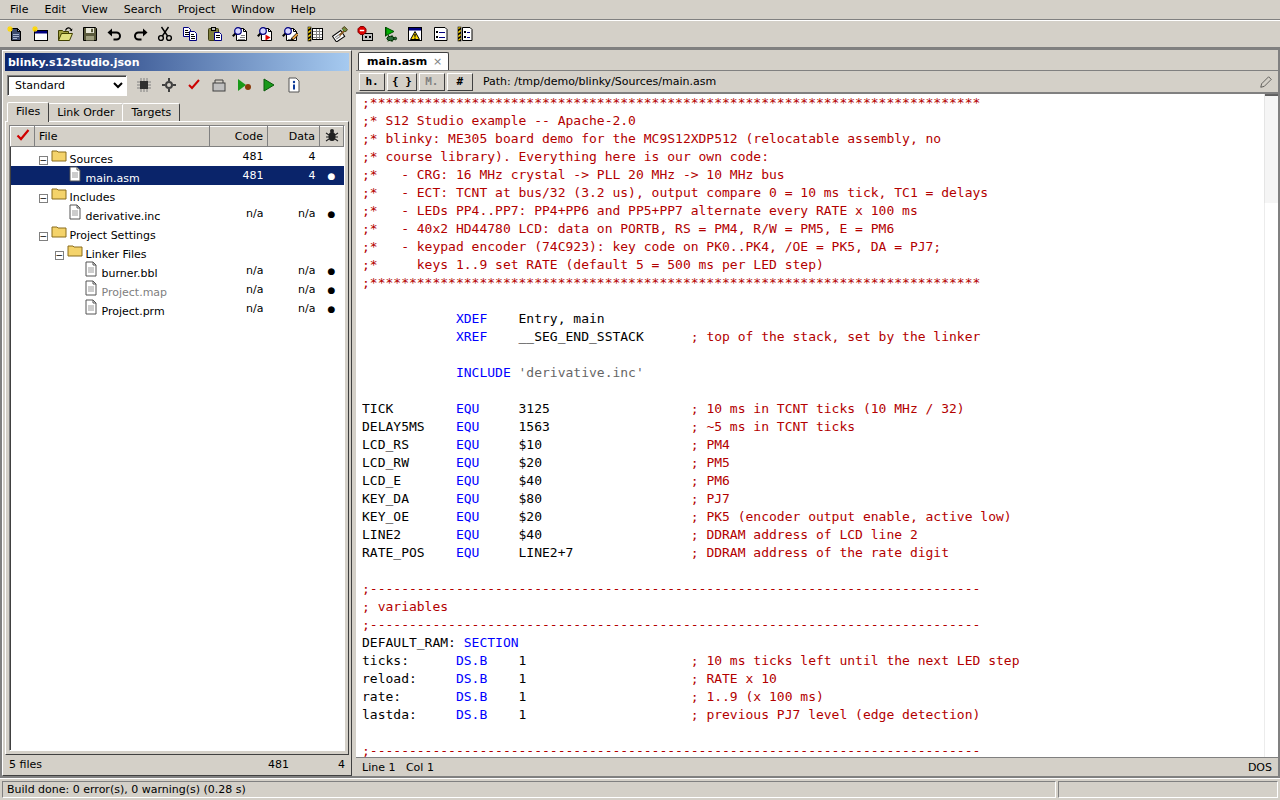
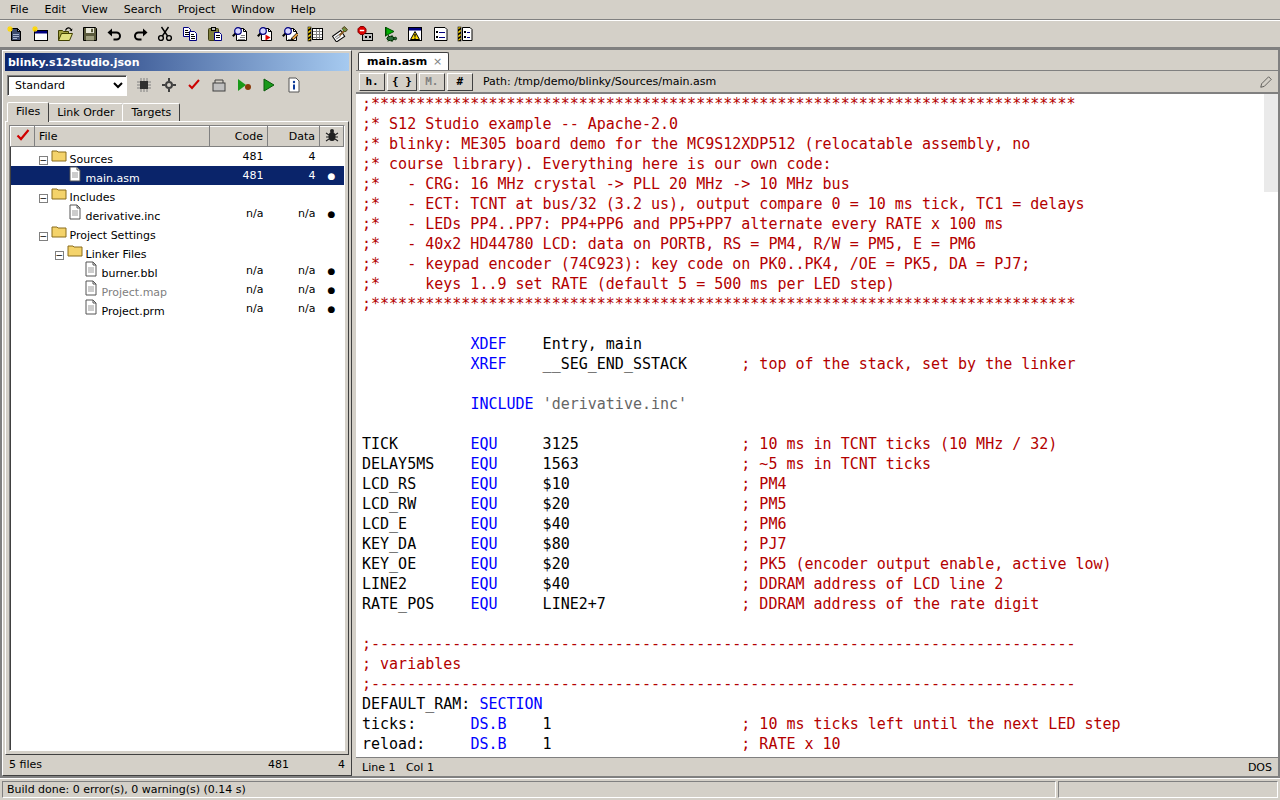
0.1.3: Consolas is the only code font; editor default size 15
- Code text (editor, debugger Source/Assembly/Memory/Command/Terminal, Errors & Warnings, board panel)
  always uses Consolas (fallbacks Menlo / DejaVu Sans Mono / Liberation Mono off Windows). Courier New's
  hairline strokes were hard to read.
- The font is no longer a setting: editor.fontFamily is gone (settings v2 migration drops it and moves the
  old default size 13 to the new default 15; a size the user chose is kept). Component > Fonts in the
  debugger picks the size only; a layout's FONT face is kept for round-trips but not used for display.
- Docs-site screenshots regenerated.

Changed region(s): [[0.2812, 0.125, 0.875, 0.9375], [0.5312, 0.8125, 0.875, 0.9375], [0.5625, 0.4062, 0.8438, 0.4688]]

diff --git a/apps/ide/src/renderer/debugger/shell/dialogs.tsx b/apps/ide/src/renderer/debugger/shell/dialogs.tsx
@@ -6,6 +6,7 @@ import { useEffect, useState } from 'react';
 import { Button, Dialog, useResetOnOpen } from '../../common/controls';
 import { COMPONENTS, type ComponentEntry } from '../components/registry';
 import type { HiwaveComponentName } from '../components/contract';
+import { THEME } from '../../../shared/theme/tokens';
 import { ToolbarIcons } from './toolbar-icons';
 
 export { PromptDialog, type PromptDialogProps } from './PromptDialog';
@@ -148,17 +149,12 @@ export function ComponentOpenDialog({ open, onClose, onOpen }: { open: boolean; 
 
 // ------------------------------------------------------------------------------------------------ fonts / background
 
-export const FONT_FACES = ['Courier New', 'Lucida Console', 'Consolas', 'Liberation Mono', 'DejaVu Sans Mono', 'monospace'];
 export const FONT_SIZES = [7, 8, 9, 10, 11, 12, 14, 16, 18];
 
 export function FontDialog({ open, onClose, font, onApply }: { open: boolean; onClose: () => void; font: { face: string; size: number; color: string }; onApply: (f: { face: string; size: number; color: string }) => void }) {
-  const [face, setFace] = useState(font.face);
+  // Only the size is a choice: the code font is always THEME.monoFont (Consolas). The layout's face passes through.
   const [size, setSize] = useState(font.size);
-  useResetOnOpen(open, () => {
-    setFace(font.face);
-    setSize(font.size);
-  });
-  const faces = FONT_FACES.includes(font.face) ? FONT_FACES : [font.face, ...FONT_FACES];
+  useResetOnOpen(open, () => setSize(font.size));
   return (
     <Dialog
       title="Font"
@@ -171,7 +167,7 @@ export function FontDialog({ open, onClose, font, onApply }: { open: boolean; on
           <Button
             isDefault
             onClick={() => {
-              onApply({ face, size, color: font.color || 'BLACK' });
+              onApply({ face: font.face, size, color: font.color || 'BLACK' });
               onClose();
             }}
           >
@@ -183,14 +179,6 @@ export function FontDialog({ open, onClose, font, onApply }: { open: boolean; on
     >
       <div style={{ display: 'flex', gap: 8 }}>
         <label>
-          Font:
-          <select className="cw-field" style={{ display: 'block', width: 200 }} value={face} onChange={(e) => setFace(e.target.value)} aria-label="Font">
-            {faces.map((f) => (
-              <option key={f}>{f}</option>
-            ))}
-          </select>
-        </label>
-        <label>
           Size:
           <select className="cw-field" style={{ display: 'block', width: 70 }} value={size} onChange={(e) => setSize(Number(e.target.value))} aria-label="Size">
             {FONT_SIZES.map((s) => (
@@ -201,7 +189,7 @@ export function FontDialog({ open, onClose, font, onApply }: { open: boolean; on
           </select>
         </label>
       </div>
-      <div className="cw-sunken" style={{ marginTop: 8, padding: 6, background: 'var(--cw-window)', fontFamily: `'${face}', monospace`, fontSize: `${(size * 96) / 72}px` }}>
+      <div className="cw-sunken" style={{ marginTop: 8, padding: 6, background: 'var(--cw-window)', fontFamily: THEME.monoFont, fontSize: `${(size * 96) / 72}px` }}>
         LDAA #$FF ; AaBbYyZz
       </div>
     </Dialog>

diff --git a/apps/ide/src/main/engine/settings-store.test.ts b/apps/ide/src/main/engine/settings-store.test.ts
@@ -1,0 +1,43 @@
+import { mkdtemp, readFile, writeFile } from 'node:fs/promises';
+import { tmpdir } from 'node:os';
+import { join } from 'node:path';
+import { describe, expect, it } from 'vitest';
+import { DEFAULT_SETTINGS } from '../../shared/api/settings';
+import { migrateSettings, SettingsStore } from './settings-store';
+
+describe('settings migration (v1 -> v2: fixed code font)', () => {
+  it('drops the old editor font and moves the old default size 13 to 15', () => {
+    const m = migrateSettings({ version: 1, editor: { fontFamily: "'Courier New', Courier, monospace", fontSize: 13, tabSize: 4 } });
+    expect(m.version).toBe(2);
+    expect(m.editor).toEqual({ fontSize: 15, tabSize: 4 });
+  });
+
+  it('keeps a size the user picked', () => {
+    expect(migrateSettings({ version: 1, editor: { fontFamily: 'Consolas', fontSize: 18 } }).editor).toEqual({ fontSize: 18 });
+  });
+
+  it('leaves a v2 file alone (13 chosen after the change stays 13)', () => {
+    expect(migrateSettings({ version: 2, editor: { fontSize: 13 } }).editor).toEqual({ fontSize: 13 });
+  });
+
+  it('a v1 settings.json loads without fontFamily, and the next save writes v2', async () => {
+    const dir = await mkdtemp(join(tmpdir(), 's12-settings-'));
+    const file = join(dir, 'settings.json');
+    await writeFile(file, JSON.stringify({ version: 1, showStartupDialog: false, editor: { fontFamily: "'Courier New'", fontSize: 13 } }));
+    const store = new SettingsStore(file);
+    const s = await store.get();
+    expect(s.version).toBe(2);
+    expect(s.showStartupDialog).toBe(false);
+    expect(s.editor).toEqual({ ...DEFAULT_SETTINGS.editor, fontSize: 15 });
+    expect('fontFamily' in s.editor).toBe(false);
+    await store.update({ editor: { tabSize: 4 } });
+    const saved = JSON.parse(await readFile(file, 'utf8'));
+    expect(saved.version).toBe(2);
+    expect(saved.editor.fontFamily).toBeUndefined();
+  });
+
+  it('defaults: size 15, no font setting', () => {
+    expect(DEFAULT_SETTINGS.editor.fontSize).toBe(15);
+    expect('fontFamily' in DEFAULT_SETTINGS.editor).toBe(false);
+  });
+});

diff --git a/apps/ide/src/main/engine/settings-store.ts b/apps/ide/src/main/engine/settings-store.ts
@@ -20,6 +20,23 @@ export function mergeSettings(base: AppSettings, patch: AppSettingsPatch): AppSe
   return s;
 }
 
+/**
+ * Bring a settings file from an older version up to date:
+ * - v1 -> v2: the editor font is no longer a setting (drop `editor.fontFamily`), and the old default size 13 becomes
+ *   the new default 15 (a size the user picked themselves is kept).
+ */
+export function migrateSettings(raw: Record<string, unknown>): AppSettingsPatch {
+  const s = { ...raw };
+  const editor = s.editor && typeof s.editor === 'object' && !Array.isArray(s.editor) ? { ...(s.editor as Record<string, unknown>) } : undefined;
+  if (editor) {
+    delete editor.fontFamily;
+    if (s.version !== 2 && editor.fontSize === 13) editor.fontSize = DEFAULT_SETTINGS.editor.fontSize;
+    s.editor = editor;
+  }
+  s.version = DEFAULT_SETTINGS.version;
+  return s as AppSettingsPatch;
+}
+
 export class SettingsStore {
   private settings: AppSettings = structuredClone(DEFAULT_SETTINGS);
   private loaded = false;
@@ -34,7 +51,7 @@ export class SettingsStore {
     if (!this.loaded) {
       this.loaded = true;
       try {
-        const parsed = JSON.parse(await readFile(this.file, 'utf8')) as AppSettingsPatch;
+        const parsed = migrateSettings(JSON.parse(await readFile(this.file, 'utf8')) as Record<string, unknown>);
         this.settings = mergeSettings(structuredClone(DEFAULT_SETTINGS), parsed);
       } catch {
         // missing or corrupt: defaults

diff --git a/apps/ide/src/renderer/ide/editor/EditorArea.test.tsx b/apps/ide/src/renderer/ide/editor/EditorArea.test.tsx
@@ -7,6 +7,7 @@ import { createMockS12, type MockS12 } from '../../common/testing/mockS12';
 import { setMonacoLoader } from '../../common/monaco/loader';
 import { createFakeMonaco, type FakeEditor, type FakeMonaco } from '../../common/monaco/testing/fakeMonaco';
 import { ApiError, type ProjectInfo, type WriteTextRequest } from '../../../shared/api';
+import { THEME } from '../../../shared/theme/tokens';
 import { runIdeCommand } from '../commands';
 import { getEditorArea, type EditorAreaHandle } from './bridge';
 import { visualColumn } from './documents';
@@ -100,7 +101,7 @@ describe('EditorArea: opening files', () => {
     expect(ed.revealed).toContain(4);
     expect(screen.getByTestId('editor-linecol')).toHaveTextContent('Line 4 Col 21');
     expect(mock.calls('files', 'watch')).toEqual([[MAIN]]);
-    expect(ed.options).toMatchObject({ autoIndent: 'none', theme: 'cw-ide', minimap: { enabled: false }, fontFamily: "'Courier New', Courier, monospace", fontSize: 13 });
+    expect(ed.options).toMatchObject({ autoIndent: 'none', theme: 'cw-ide', minimap: { enabled: false }, fontFamily: THEME.monoFont, fontSize: 15 });
     expect(screen.getByTestId('editor-status')).toHaveTextContent('DOS');
   });
 

diff --git a/apps/ide/src/shared/api/settings.ts b/apps/ide/src/shared/api/settings.ts
@@ -3,8 +3,8 @@
  * sidecar ('<name>.s12studio.json'; structured edits go through ProjectApi).
  */
 
+/** Editor preferences. The code font itself is fixed (THEME.monoFont, Consolas); only its size is a preference. */
 export interface EditorPrefs {
-  fontFamily: string;
   fontSize: number;
   tabSize: number;
   /** Insert spaces instead of tabs. */
@@ -30,7 +30,8 @@ export interface WindowBounds {
 }
 
 export interface AppSettings {
-  version: 1;
+  /** 2: the editor font became fixed (fontFamily dropped) and the default size 13 -> 15. */
+  version: 2;
   showStartupDialog: boolean;
   recentProjects: string[];
   recentFiles: string[];
@@ -45,11 +46,11 @@ export type AppSettingsPatch = {
 };
 
 export const DEFAULT_SETTINGS: AppSettings = {
-  version: 1,
+  version: 2,
   showStartupDialog: true,
   recentProjects: [],
   recentFiles: [],
-  editor: { fontFamily: "'Courier New', Courier, monospace", fontSize: 13, tabSize: 8, insertSpaces: false, syntaxColoring: true },
+  editor: { fontSize: 15, tabSize: 8, insertSpaces: false, syntaxColoring: true },
   debugger: { pacing: 'true-time', speedFactor: 1, snapshotHz: 30, keyboardToKeypad: true },
   windows: {},
 };

diff --git a/apps/ide/src/renderer/common/monaco/SourceView.tsx b/apps/ide/src/renderer/common/monaco/SourceView.tsx
@@ -17,6 +17,7 @@ import { ContextMenu, type ContextMenuState } from '../menu/MenuBar';
 import { SEP, type MenuEntry } from '../menu/model';
 import { languageForPath, HC12_LANGUAGE_ID } from './hc12';
 import { useMonaco } from './loader';
+import { THEME } from '../../../shared/theme/tokens';
 import { CW_HIWAVE_THEME } from './themes';
 import './sourceView.css';
 
@@ -168,7 +169,7 @@ function describeBp(b: SourceBreakpointMark): string {
 }
 
 export const SourceView = forwardRef<SourceViewHandle, SourceViewProps>(function SourceView(props, ref) {
-  const { text, path, pcLine, codeLines, breakpoints, followPc = true, fontFamily = "'Courier New', Courier, 'Liberation Mono', monospace", fontSize = 12, tabSize = 8, testId = 'source-view' } = props;
+  const { text, path, pcLine, codeLines, breakpoints, followPc = true, fontFamily = THEME.monoFont, fontSize = 12, tabSize = 8, testId = 'source-view' } = props;
   const monaco = useMonaco();
   const hostRef = useRef<HTMLDivElement>(null);
   const edRef = useRef<MonacoNs.editor.IStandaloneCodeEditor | null>(null);

diff --git a/apps/ide/src/renderer/ide/editor/EditorArea.tsx b/apps/ide/src/renderer/ide/editor/EditorArea.tsx
@@ -16,6 +16,7 @@ import { commentLines, scanIncludes, scanLabels, type CommentMode, type TextSear
 import { languageForPath } from '../../common/monaco/hc12';
 import { loadMonaco, useMonaco, type Monaco } from '../../common/monaco/loader';
 import { CW_IDE_THEME, CW_PLAIN_THEME } from '../../common/monaco/themes';
+import { THEME } from '../../../shared/theme/tokens';
 import { useIdeCommand } from '../commands';
 import { setEditorArea, type EditorAreaHandle } from './bridge';
 import { baseName, dirName, isBinaryPath, isDirty, joinPath, samePath, visualColumn, type EditorDoc } from './documents';
@@ -67,7 +68,7 @@ function useEditorPrefs(): EditorPrefs {
 export function editorOptions(prefs: EditorPrefs, lineNumbers: boolean): MonacoNs.editor.IStandaloneEditorConstructionOptions {
   return {
     theme: prefs.syntaxColoring ? CW_IDE_THEME : CW_PLAIN_THEME,
-    fontFamily: prefs.fontFamily,
+    fontFamily: THEME.monoFont,
     fontSize: prefs.fontSize,
     fontLigatures: false,
     lineNumbers: lineNumbers ? 'on' : 'off',

diff --git a/apps/ide/src/renderer/debugger/components/terminal/TerminalComponent.tsx b/apps/ide/src/renderer/debugger/components/terminal/TerminalComponent.tsx
@@ -12,6 +12,7 @@ import { Terminal } from '@xterm/xterm';
 import '@xterm/xterm/css/xterm.css';
 import { useCallback, useEffect, useMemo, useRef, useState } from 'react';
 import { parseApiError } from '../../../../shared/api';
+import { THEME } from '../../../../shared/theme/tokens';
 import { Button, Dialog, GroupBox, useResetOnOpen } from '../../../common/controls';
 import { DialogLayer } from '../../dialogs/DialogLayer';
 import { ContextMenu, type ContextMenuState } from '../../../common/menu/MenuBar';
@@ -86,7 +87,7 @@ export function TerminalComponent(_props: DebuggerComponentProps) {
     if (!el) return;
     const term = new Terminal({
       convertEol: settingsRef.current.convertEol,
-      fontFamily: "'Courier New', Courier, 'Liberation Mono', monospace",
+      fontFamily: THEME.monoFont,
       fontSize: 13,
       cursorBlink: true,
       scrollback: 5000,

diff --git a/apps/ide/src/renderer/common/theme.css b/apps/ide/src/renderer/common/theme.css
@@ -1,6 +1,6 @@
 /*
  * Classic Win2000/XP-era CodeWarrior / hiwave look: grey 3D chrome, bevels, Tahoma/MS Sans Serif UI font,
- * Courier New for code. Token names match src/shared/theme/tokens.ts (--cw-<key>).
+ * Consolas for code (THEME.monoFont). Token names match src/shared/theme/tokens.ts (--cw-<key>).
  * Utility classes are prefixed `cw-`; components may add their own CSS modules/files next to them.
  */
 :root {
@@ -30,7 +30,7 @@
   --cw-cmd-warning: #008000;
   --cw-ui-font: Tahoma, 'MS Sans Serif', 'Microsoft Sans Serif', 'Segoe UI', Arial, sans-serif;
   --cw-ui-font-size: 11px;
-  --cw-mono-font: 'Courier New', Courier, 'Liberation Mono', monospace;
+  --cw-mono-font: Consolas, Menlo, 'DejaVu Sans Mono', 'Liberation Mono', 'Courier New', monospace;
   --cw-mono-font-size: 12px;
   color-scheme: light;
 }

diff --git a/apps/ide/src/main/ipc/handlers/settings.ts b/apps/ide/src/main/ipc/handlers/settings.ts
@@ -6,13 +6,12 @@ import type { MainServices } from '../../services';
 const bounds = v.object({ x: v.number(), y: v.number(), width: v.number({ min: 0 }), height: v.number({ min: 0 }), maximized: v.boolean() });
 
 const patchV = v.object({
-  version: v.optional(v.literal(1)),
+  version: v.optional(v.literal(2)),
   showStartupDialog: v.optional(v.boolean()),
   recentProjects: v.optional(v.array(v.path(), 50)),
   recentFiles: v.optional(v.array(v.path(), 50)),
   editor: v.optional(
     v.object({
-      fontFamily: v.optional(v.string({ max: 256 })),
       fontSize: v.optional(v.number({ min: 6, max: 72 })),
       tabSize: v.optional(v.int(1, 16)),
       insertSpaces: v.optional(v.boolean()),

diff --git a/apps/ide/src/renderer/debugger/shell/DebuggerShell.tsx b/apps/ide/src/renderer/debugger/shell/DebuggerShell.tsx
@@ -424,7 +424,7 @@ export function DebuggerShell() {
 
   const mdiStyle = useMemo(() => {
     const st: Record<string, string> = {};
-    if (mdi.font?.face) st['--cw-mono-font'] = `'${mdi.font.face}', 'Courier New', Courier, monospace`;
+    // the typeface is fixed (THEME.monoFont); a layout's FONT face is kept only so a saved layout round-trips
     if (mdi.font?.size) st['--cw-mono-font-size'] = `${pointsToPx(mdi.font.size)}px`;
     if (mdi.bckcolor !== undefined) st['--cw-window'] = colorrefToCss(mdi.bckcolor);
     return st as React.CSSProperties;

diff --git a/apps/ide/src/shared/theme/tokens.ts b/apps/ide/src/shared/theme/tokens.ts
@@ -34,7 +34,8 @@ export const THEME = {
   cmdWarning: '#008000',
   uiFont: "Tahoma, 'MS Sans Serif', 'Microsoft Sans Serif', 'Segoe UI', Arial, sans-serif",
   uiFontSize: '11px',
-  monoFont: "'Courier New', Courier, 'Liberation Mono', monospace",
+  /** The only code font (editor, debugger, errors, board). Consolas: Courier New's hairline strokes strain the eyes. */
+  monoFont: "Consolas, Menlo, 'DejaVu Sans Mono', 'Liberation Mono', 'Courier New', monospace",
   monoFontSize: '12px',
 } as const;
 
